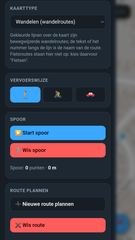
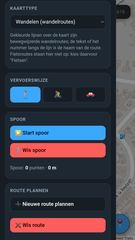
fix-11: screenshots Locatietracker zonder vervaging
Claude-Session: https://claude.ai/code/session_01XUH6ktRMEmVt7wqkZKvhNj

diff --git a/index.html b/index.html
@@ -1,5 +1,5 @@
 <!doctype html>
-<!-- fix-11: screenshots Locatietracker (coördinaten en straatnamen vervaagd) -->
+<!-- fix-11: screenshots Locatietracker -->
 <html lang="nl">
 <head>
 <meta charset="utf-8">
